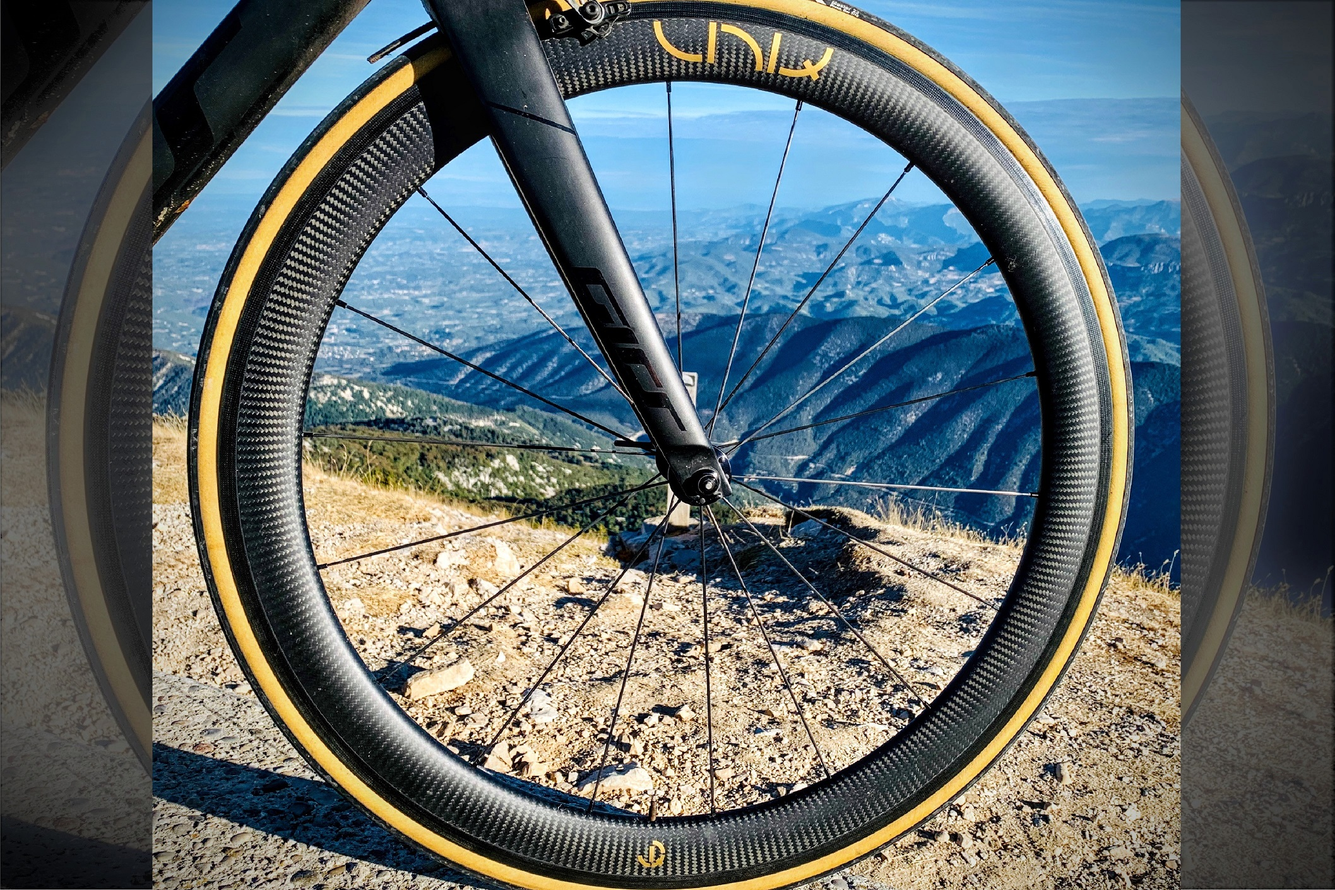
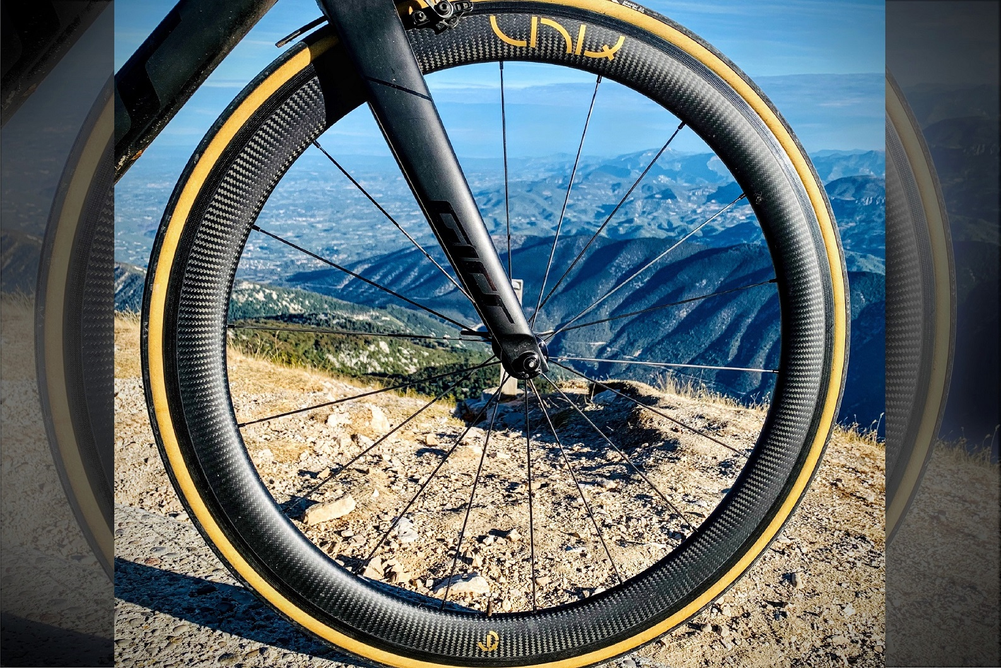
update

diff --git a/products.html b/products.html
@@ -103,7 +103,7 @@
 										<span>Simplement Rapides</span>
 										<br><span><b>Paire - 969€</b></span>
 									</header>
-									<a href="productUniqForAero.html" class="image fit"><img src="images/uniqForAero6.jpg" alt="" /></a>
+									<a href="productUniqForAero.html" class="image fit"><img src="images/small_uniqForAero6_2.jpg" alt="" /></a>
 									<ul class="actions special">
 										<li><a href="productUniqForAero.html" class="button">Plus de détails</a></li>
 									</ul>
